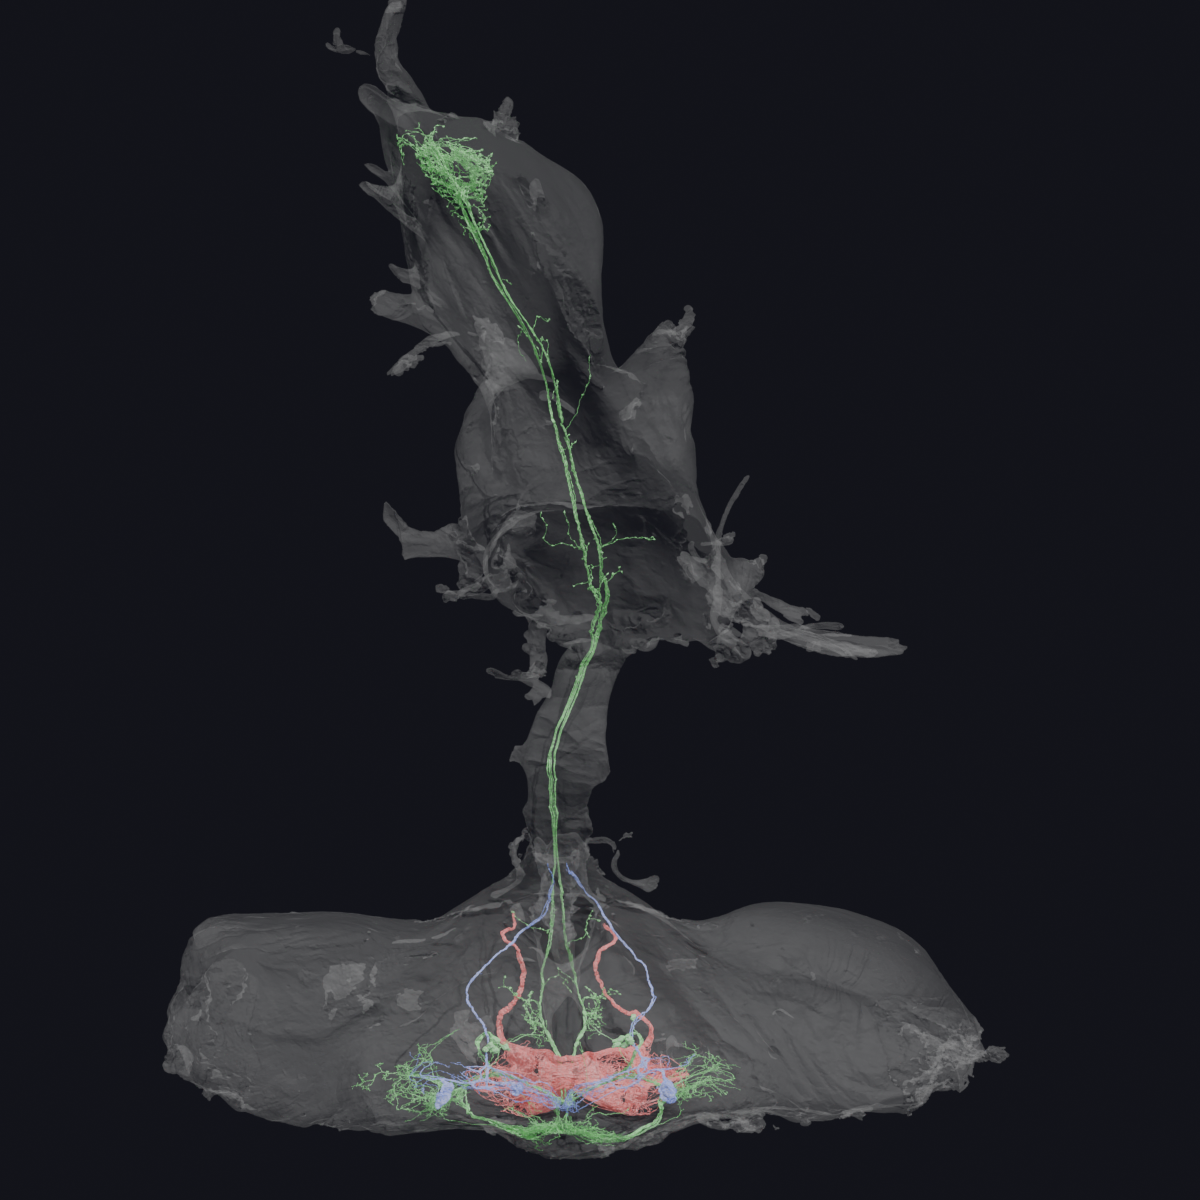
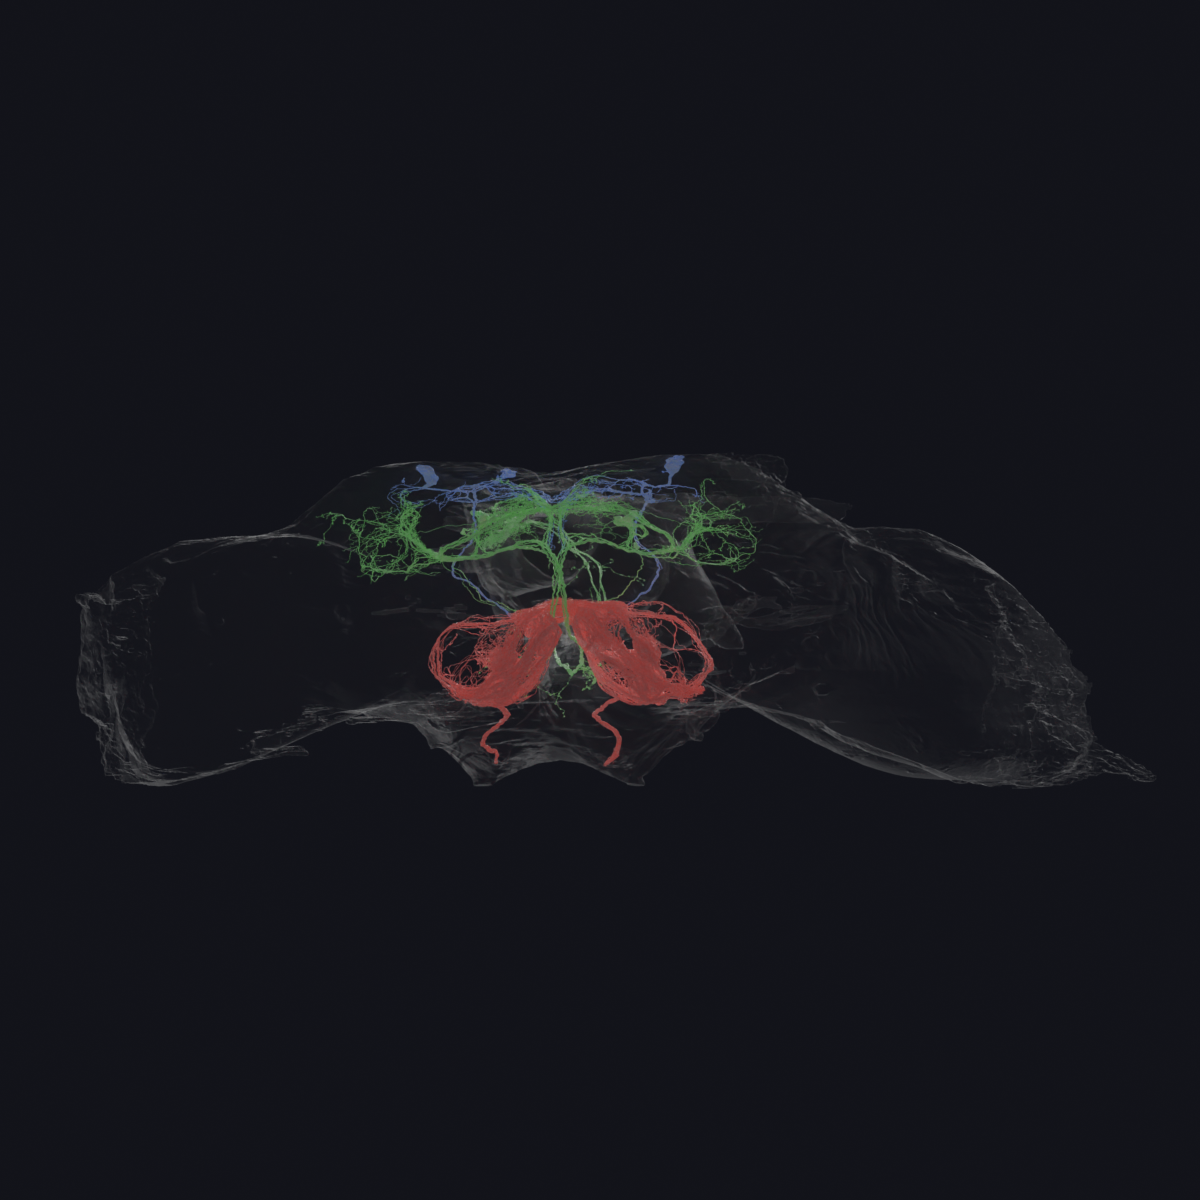
get meshes into frame, start setup for interneurons

diff --git a/banc/render_banc.py b/banc/render_banc.py
@@ -55,23 +55,41 @@ GROUP_COLORS = {
     "ORN": (0.85, 0.15, 0.15, 1.0),
     "OviDN": (0.15, 0.75, 0.15, 1.0),
     "CA": (0.15, 0.25, 0.85, 1.0),
+    "DA": (0.4793, 0.1912, 0.1413, 1.0),      # Dopamine (#B87969)
+    "SER": (0.2623, 0.1221, 0.3005, 1.0),     # Serotonin (#8C6295)
+    "ACH": (0.3005, 0.3663, 0.6172, 1.0),     # Acetylcholine (#95A3CE)
+    "GABA": (0.6654, 0.3916, 0.0648, 1.0),    # GABA (#D5A848)
+    "GLUT": (0.2384, 0.3916, 0.0999, 1.0),    # Glutamate (#86A859)
+    "HIST": (0.5711, 0.2016, 0.2542, 1.0),    # Histamine (#C77C8A)
+    "TYR": (0.159, 0.3864, 0.3663, 1.0),      # Tyrosine (#6FA7A3)
+    "OCT": (0.1683, 0.107, 0.314, 1.0),       # Octopamine (#725C98)
+    "Unknown": (0.5906, 0.5906, 0.5906, 1.0) # Unknown (#CACACA)
 }
 
-# Camera angles as (name, direction_vector, up_hint_degrees) -- direction
-# is normalized and scaled by the scene's actual bounding-sphere radius at
-# render time, NOT a hardcoded distance. This is the fix for the "camera
-# pointed at empty space" bug: BANC's mesh content is NOT centered at
-# world (0,0,0) after import (CAVE/graphene coordinates are absolute, not
-# relative to any particular neuron), so cameras built around a fixed
-# (0,0,0) target and fixed absolute distances only work by coincidence.
-# Direction vectors don't need to be unit length -- get_camera_angles()
-# normalizes them.
-CAMERA_DIRECTIONS = [
-    ("dorsal", (0, 0, 1)),
-    ("lateral_L", (1, 0, 0.15)),
-    ("lateral_R", (-1, 0, 0.15)),
-    ("anterior", (0, -1, 0.15)),
-    ("oblique", (0.7, -0.7, 0.5)),
+# Camera views expressed as ANATOMICAL labels, not raw world-axis vectors.
+# The earlier version hardcoded world (0,0,1) = dorsal, which assumed the
+# CNS's dorsal-ventral axis lines up with Blender's world Z -- it doesn't
+# (confirmed empirically: bounding box extents were X=88.7, Y=31.6,
+# Z=109.6, and a CNS's longest axis is anterior-posterior, shortest is
+# dorsal-ventral -- so world Z is actually A-P here, world Y is D-V, world
+# X is left-right). Rather than hardcode that one-off mapping (fragile if
+# a different circuit's outline mesh or a coordinate-convention change
+# shifts things), axis roles are inferred from bounding-box shape at
+# render time: longest extent = anterior-posterior, shortest = dorsal-
+# ventral, middle = medial-lateral. This holds for any CNS-shaped volume
+# regardless of which world axis it happens to occupy.
+#
+# Each entry: (name, axis_role, sign, up_role). sign=+1/-1 picks which end
+# of that axis the camera sits on; up_role names which anatomical axis
+# should map to the camera's "up" so the roll comes out right (this is
+# the fix for the earlier upside-down dorsal render, which used a fixed
+# world-Y up-hint that fought the real anatomy).
+CAMERA_VIEWS = [
+    ("dorsal", "dorsal_ventral", -1, "anterior_posterior", "medial_lateral", "anterior_posterior"),
+    ("anterior", "anterior_posterior", -1, "dorsal_ventral", "medial_lateral", "dorsal_ventral"),
+    ("lateral_L", "medial_lateral", +1, "dorsal_ventral", "anterior_posterior", "dorsal_ventral"),
+    ("lateral_R", "medial_lateral", -1, "dorsal_ventral", "anterior_posterior", "dorsal_ventral"),
+    ("oblique", None, None, "dorsal_ventral", None, None),  # handled specially, see render_all_angles
 ]
 
 MESH_SCALE = 1 / 10000  # matches the scaling convention in 3d_skeleton.py / b3d.Handler(scaling=...)
@@ -87,9 +105,9 @@ def clear_scene():
 
 
 def load_manifest(mesh_dir):
-    """Returns mesh_id_ (str, no extension) -> group.
+    """Returns mesh_id (str, no extension) -> group.
 
-    Mesh mesh_ids are NOT root IDs (navis.write_mesh names them by some
+    Mesh IDs are NOT root IDs (navis.write_mesh names them by some
     internal/UUID-like scheme, not the root_id you passed in), so the
     manifest must carry both the mesh_id and the root_id, and this
     lookup has to key on mesh_id since that's the only thing
@@ -103,7 +121,7 @@ def load_manifest(mesh_dir):
             raise ValueError(
                 f"manifest.csv has columns {reader.fieldnames}, expected a "
                 "'mesh_id' column -- update Stage A to write the mesh "
-                "mesh_id (path.stem) alongside root_id and group."
+                "ID (path.stem) alongside root_id and group."
             )
         for row in reader:
             mapping[row["mesh_id"]] = row["group"]
@@ -267,12 +285,13 @@ def setup_render(engine, device, resolution, samples, compute_type=None):
 
 
 def compute_scene_bounds(objects):
-    """World-space bounding box center + radius across all given mesh
-    objects. This is the actual fix for the framing bug: CAVE/graphene
-    root IDs carry absolute connectome coordinates, so imported geometry
-    is NOT centered at (0,0,0) -- it sits wherever that ID's absolute
-    position was, offset by nothing. Cameras need to target and frame
-    around this computed center, not the world origin.
+    """World-space bounding box center + per-axis extents across the
+    given mesh objects. Called with ONLY the CNS outline object (not the
+    neuron meshes) -- the outline is a strict spatial superset of every
+    neuron in any circuit subset, so it's a stable, circuit-independent
+    reference frame. Framing off the neuron subset instead would make
+    different circuit renders inconsistently scaled/centered against
+    one another.
     """
     min_co = Vector((float("inf"),) * 3)
     max_co = Vector((float("-inf"),) * 3)
@@ -293,51 +312,117 @@ def compute_scene_bounds(objects):
             max_co.z = max(max_co.z, world_co.z)
 
     center = (min_co + max_co) / 2
-    radius = (max_co - min_co).length / 2
+    extents = max_co - min_co  # full extent per axis, not half
+    radius = extents.length / 2
     print(f"Scene bounds: center={tuple(round(c, 3) for c in center)}, "
-          f"radius={radius:.3f}")
-    return center, radius
+          f"extents={tuple(round(e, 3) for e in extents)}, radius={radius:.3f}")
+    return center, extents, radius
 
 
-def frame_camera_on_target(cam_obj, target, location):
+def infer_axis_roles(extents):
+    """Map world axes (0=X, 1=Y, 2=Z) to anatomical roles by extent size:
+    longest = anterior_posterior, shortest = dorsal_ventral, middle =
+    medial_lateral. This holds for any CNS-shaped bounding volume
+    regardless of which world axis it happens to land on for a given
+    mesh export/coordinate convention -- confirmed against the actual
+    printed extents (X=88.68, Y=31.55, Z=109.56): Z is longest (A-P),
+    Y is shortest (D-V), X is middle (M-L), matching known fly CNS
+    proportions (elongated A-P, thin D-V).
+    Returns {role_name: (axis_index, extent_value)}.
+    """
+    axis_extents = sorted(enumerate(extents), key=lambda t: t[1], reverse=True)
+    roles = {
+        "anterior_posterior": axis_extents[0],
+        "medial_lateral": axis_extents[1],
+        "dorsal_ventral": axis_extents[2],
+    }
+    print("Inferred axis roles (role -> (axis_index, extent)):", roles)
+    return roles
+
+
+def unit_vector_for_axis(axis_index, sign):
+    v = [0.0, 0.0, 0.0]
+    v[axis_index] = float(sign)
+    return Vector(v)
+
+
+def frame_camera_on_target(cam_obj, target, location, up_hint="Y"):
     direction = target - location
     cam_obj.location = location
-    cam_obj.rotation_euler = direction.to_track_quat("-Z", "Y").to_euler()
+    cam_obj.rotation_euler = direction.to_track_quat("-Z", up_hint).to_euler()
+
+def distance_for_fov(cam_data, horizontal_extent, vertical_extent, margin=1.15):
+    """Required camera distance so both extents fit in frame, with margin."""
+    fov_h = cam_data.angle_x   # radians, live from lens+sensor_width
+    fov_v = cam_data.angle_y   # radians, live from lens+sensor_height
+    d_for_width = horizontal_extent / (2 * math.tan(fov_h / 2))
+    d_for_height = vertical_extent / (2 * math.tan(fov_v / 2))
+    return max(d_for_width, d_for_height) * margin
 
 
 def render_all_angles(out_dir, resolution):
     out_dir.mkdir(parents=True, exist_ok=True)
 
-    mesh_objects = [o for o in bpy.context.scene.objects if o.type == "MESH"]
-    if not mesh_objects:
-        raise RuntimeError("No mesh objects in scene -- did import_meshes run first?")
-    center, radius = compute_scene_bounds(mesh_objects)
+    outline_obj = bpy.data.objects.get("cns_outline")
+    if outline_obj is None:
+        raise RuntimeError(
+            "No 'cns_outline' object found -- framing needs the outline mesh "
+            "as the stable reference volume (see compute_scene_bounds docstring). "
+            "Check that cns_outline.obj exists in mesh-dir and import_meshes loaded it."
+        )
+    center, extents, radius = compute_scene_bounds([outline_obj])
     if radius == 0:
         raise RuntimeError("Computed scene radius is 0 -- bounding box degenerate, "
-                            "check that meshes actually imported with real geometry.")
+                            "check that the outline mesh actually has real geometry.")
+    axis_roles = infer_axis_roles(extents)
 
-    # Distance scaled to bounding radius rather than a fixed number, with
-    # a margin so the full extent fits in frame (empirical factor -- 2.2x
-    # radius comfortably fits a roughly spherical/ellipsoid cluster with a
-    # ~50mm lens; tighten/loosen after seeing a real render).
-    distance = radius * 2.2
+    # # Distance scaled to bounding radius, with margin so the fullest
+    # # extent (anterior-posterior, always the longest) still fits in frame.
+    # # 1.3x the A-P half-extent is tighter than the earlier flat 2.2x*radius
+    # # guess, and won't clip since it's derived from the real long axis
+    # # rather than a generic sphere-fit distance.
+    # ap_axis, ap_extent = axis_roles["anterior_posterior"]
+    # distance = max(radius * 2.2, ap_extent * 0.75)
 
     bpy.ops.object.camera_add(location=(0, 0, 0))
     cam_obj = bpy.context.object
     cam_obj.name = "render_cam"
     cam_obj.data.lens = 50
-    cam_obj.data.clip_end = distance * 10  # avoid far-plane clipping at these scales
+    cam_obj.data.clip_end = radius * 5  # avoid far-plane clipping at these scales
     bpy.context.scene.camera = cam_obj
 
-    for name, direction in CAMERA_DIRECTIONS:
-        dir_vec = Vector(direction).normalized()
+    for name, axis_role, sign, up_role, h_dim, v_dim in CAMERA_VIEWS:
+        if name == "oblique": continue
+        if axis_role is None:
+            # oblique: average of anterior + one lateral direction, so it
+            # doesn't depend on a single anatomical axis.
+            ap_idx, _ = axis_roles["anterior_posterior"]
+            ml_idx, _ = axis_roles["medial_lateral"]
+            dv_idx, _ = axis_roles["dorsal_ventral"]
+            dir_vec = (
+                unit_vector_for_axis(ap_idx, -1) * 0.7
+                + unit_vector_for_axis(ml_idx, +1) * 0.7
+                + unit_vector_for_axis(dv_idx, +1) * 0.4
+            ).normalized()
+        else:
+            axis_idx, _ = axis_roles[axis_role]
+            dir_vec = unit_vector_for_axis(axis_idx, sign)
+
+        up_axis_idx, _ = axis_roles[up_role]
+        # Blender's to_track_quat up-hint wants a named axis ("X"/"Y"/"Z"),
+        # not a vector -- map the anatomical up-role back to whichever
+        # world axis it corresponds to.
+        up_hint = "XYZ"[up_axis_idx]
+
+        margin = 0.8 if name == "dorsal" else 1.5 if name == "anterior" else 1.2
+        distance = distance_for_fov(cam_obj.data, axis_roles[h_dim][1], axis_roles[v_dim][1], margin=margin)
         location = center + dir_vec * distance
-        frame_camera_on_target(cam_obj, center, location)
+        frame_camera_on_target(cam_obj, center, location, up_hint=up_hint)
 
         out_path = out_dir / f"banc_{name}.png"
         bpy.context.scene.render.filepath = str(out_path)
-        print(f"Rendering '{name}' from {tuple(round(c, 2) for c in location)} at {cam_obj.rotation_euler} "
-              f"-> {out_path}")
+        print(f"Rendering '{name}' from {tuple(round(c, 2) for c in location)} "
+              f"(up hint: world {up_hint}) -> {out_path}")
         bpy.ops.render.render(write_still=True)
 
 

diff --git a/banc/download_meshes.py b/banc/download_meshes.py
@@ -34,16 +34,20 @@ OUTPUT_DIR.mkdir(exist_ok=True)
 # trimesh-like objects.
 navis.patch_cloudvolume()
 
-
-def main():
+def id_to_group(circuit: str):
     yeast_orns = pd.read_csv("data/yeast_orns.csv")["root_id"].tolist()
     given_neurons = pd.read_csv("data/given_neurons.csv")
     ovidns = given_neurons[given_neurons["group"] == "OviDN"]["root_id"].tolist()
     ca = given_neurons[given_neurons["group"] == "CA"]["root_id"].tolist()
-    all_ids = yeast_orns + ovidns + ca
 
-    print(f"Fetching {len(all_ids)} meshes ({len(yeast_orns)} yeast ORN, {len(ovidns)} OviDN, {len(ca)} CA)...")
+    edge_list = pd.read_csv('out/master_edge_list_with_direction.csv')
+    edge_list = edge_list[edge_list['direction'] == circuit]
+    all_neurons = pd.concat([edge_list['pre_root_id'], edge_list['post_root_id']]).unique()
+    attrs = pd.read_csv('data/neurons.csv')[['Root ID', 'Predicted NT type']].fillna('Unknown')
 
+    return {root_id: "ORN" if root_id in yeast_orns else "OviDN" if root_id in ovidns else "CA" if root_id in ca else attrs[attrs['Root ID'] == root_id]['Predicted NT type'].iloc[0] for root_id in all_neurons}
+
+def main():
     vol = CloudVolume(MESH_SOURCE, use_https=True, progress=False)
 
     # Fetch one ID at a time rather than batched. This costs some overhead
@@ -52,70 +56,73 @@ def main():
     # you lose the whole batch, not just the missing ID, which is why the
     # last run silently dropped more neurons than were actually missing.
     # Per-ID fetch means a single bad ID costs you exactly that one neuron.
-    missing = []
-    manifest = pd.DataFrame(columns=["root_id", "group", "mesh_id"])
-    for i, root_id in enumerate(all_ids):
-        try:
-            m = vol.mesh.get(root_id, as_navis=True)
-            # vol.mesh.get returns a NeuronList even for a single ID
-            # m = navis.simplify_mesh(m, F=0.2, backend='blender')
-            m = m[0]
-        except Exception as e:
-            missing.append((root_id, str(e)))
-            continue
+    for c in ['ORN_to_CA', 'ORN_to_oviDN', 'CA_to_oviDN', 'oviDN_to_CA']:
+        OUTPUT_DIR.joinpath(c).mkdir(exist_ok=True)
+        missing = []
+        manifest = pd.DataFrame(columns=["root_id", "group", "mesh_id"])
+        id2g = id_to_group(c)
+        all_ids = list(id2g.keys())
+        for i, root_id in enumerate(all_ids):
+            try:
+                m = vol.mesh.get(root_id, as_navis=True)
+                # vol.mesh.get returns a NeuronList even for a single ID
+                # m = navis.simplify_mesh(m, F=0.2, backend='blender')
+                m = m[0]
+            except Exception as e:
+                missing.append((root_id, str(e)))
+                continue
 
-        out_path = OUTPUT_DIR / f"{m.id}.obj"
-        navis.write_mesh(m, str(out_path))
-        # written.append(m.id)
-        manifest.loc[len(manifest)] = {
-            "root_id": root_id,
-            "group": given_neurons[given_neurons["root_id"] == root_id]["group"].iloc[0] if root_id in given_neurons["root_id"].values else "ORN",
-            "mesh_id": m.id,
-        }
+            out_path = OUTPUT_DIR / c / f"{m.id}.obj"
+            navis.write_mesh(m, str(out_path))
+            manifest.loc[len(manifest)] = {
+                "root_id": root_id,
+                "group": id2g[root_id],
+                "mesh_id": m.id,
+            }
 
-        if (i + 1) % 50 == 0:
-            print(f"  {i + 1}/{len(all_ids)} ({len(missing)} missing so far)")
+            if (i + 1) % 50 == 0:
+                print(f"  {i + 1}/{len(all_ids)} ({len(missing)} missing so far)")
 
-    print(f"\nWrote {len(manifest)} mesh files to {OUTPUT_DIR}/")
-    if missing:
-        print(f"Missing/failed: {len(missing)} of {len(all_ids)} ({len(missing)/len(all_ids)*100:.1f}%)")
-        missing_df = pd.DataFrame(missing, columns=["root_id", "error"])
-        missing_df.to_csv(OUTPUT_DIR / "missing_meshes.csv", index=False)
-        print(f"Full list + error messages written to {OUTPUT_DIR / 'missing_meshes.csv'}")
-        print("Worth checking whether these are real gaps in the mesh mirror (e.g. very")
-        print("recently proofread IDs not yet baked into the snapshot) vs. something else,")
-        print("since silently rendering a figure with ~5% of yeast ORNs missing is worth")
-        print("noting in the methods even if it doesn't change the qualitative picture.")
+        print(f"\nWrote {len(manifest)} mesh files to {OUTPUT_DIR}/")
+        if missing:
+            print(f"Missing/failed: {len(missing)} of {len(all_ids)} ({len(missing)/len(all_ids)*100:.1f}%)")
+            missing_df = pd.DataFrame(missing, columns=["root_id", "error"])
+            missing_df.to_csv(OUTPUT_DIR / c / "missing_meshes.csv", index=False)
+            print(f"Full list + error messages written to {OUTPUT_DIR / c / 'missing_meshes.csv'}")
+            print("Worth checking whether these are real gaps in the mesh mirror (e.g. very")
+            print("recently proofread IDs not yet baked into the snapshot) vs. something else,")
+            print("since silently rendering a figure with ~5% of yeast ORNs missing is worth")
+            print("noting in the methods even if it doesn't change the qualitative picture.")
 
-    # Also fetch the CNS outline mesh as background context, same as
-    # 3d_skeleton.py's outline_mesh fetch -- reuse that ID once you've
-    # confirmed it via the probe print in the original script.
-    OUTLINE_SOURCE = "precomputed://gs://lee-lab_brain-and-nerve-cord-fly-connectome/region_outlines"
-    cv_outline = CloudVolume(OUTLINE_SOURCE, use_https=True, progress=False)
-    outline_id = 1  # confirm via cv_outline.mesh.meta.info, per 3d_skeleton.py's probe
-    outline_mesh = cv_outline.mesh.get(outline_id, as_navis=True)
-    navis.write_mesh(outline_mesh, str(OUTPUT_DIR / "cns_outline.obj"))
-    print("Wrote cns_outline.obj")
+        # Also fetch the CNS outline mesh as background context, same as
+        # 3d_skeleton.py's outline_mesh fetch -- reuse that ID once you've
+        # confirmed it via the probe print in the original script.
+        OUTLINE_SOURCE = "precomputed://gs://lee-lab_brain-and-nerve-cord-fly-connectome/region_outlines"
+        cv_outline = CloudVolume(OUTLINE_SOURCE, use_https=True, progress=False)
+        outline_id = 1  # confirm via cv_outline.mesh.meta.info, per 3d_skeleton.py's probe
+        outline_mesh = cv_outline.mesh.get(outline_id, as_navis=True)
+        navis.write_mesh(outline_mesh, str(OUTPUT_DIR / c / "cns_outline.obj"))
+        print("Wrote cns_outline.obj")
 
-    # Write a manifest mapping root_id -> group, so Stage B (in Blender)
-    # can assign colors without needing pandas/CAVE at all. yeast_orns.csv
-    # has no 'group' column of its own, so tag those rows explicitly
-    # rather than relying on given_neurons.csv (which has ALL ~3,006 ORNs,
-    # not just the yeast-responsive subset -- filtering by root_id keeps
-    # only the ones actually fetched, which is exactly the yeast subset
-    # here since yeast_orns.csv IDs are a strict subset of given_neurons).
-    # written_ids = set(str(w) for w in written)
-    # manifest_rows = []
-    # for root_id in yeast_orns:
-    #     if str(root_id) in written_ids:
-    #         manifest_rows.append({"root_id": root_id, "group": "ORN"})
-    # other_primary = given_neurons[
-    #     given_neurons["group"].isin(["OviDN", "CA"])
-    #     & given_neurons["root_id"].astype(str).isin(written_ids)
-    # ]
-    # manifest = pd.concat([pd.DataFrame(manifest_rows), other_primary[["root_id", "group"]]], ignore_index=True)
-    manifest.to_csv(OUTPUT_DIR / "manifest.csv", index=False)
-    print(f"Wrote manifest.csv ({len(manifest)} neurons, matching what was actually fetched)")
+        # Write a manifest mapping root_id -> group, so Stage B (in Blender)
+        # can assign colors without needing pandas/CAVE at all. yeast_orns.csv
+        # has no 'group' column of its own, so tag those rows explicitly
+        # rather than relying on given_neurons.csv (which has ALL ~3,006 ORNs,
+        # not just the yeast-responsive subset -- filtering by root_id keeps
+        # only the ones actually fetched, which is exactly the yeast subset
+        # here since yeast_orns.csv IDs are a strict subset of given_neurons).
+        # written_ids = set(str(w) for w in written)
+        # manifest_rows = []
+        # for root_id in yeast_orns:
+        #     if str(root_id) in written_ids:
+        #         manifest_rows.append({"root_id": root_id, "group": "ORN"})
+        # other_primary = given_neurons[
+        #     given_neurons["group"].isin(["OviDN", "CA"])
+        #     & given_neurons["root_id"].astype(str).isin(written_ids)
+        # ]
+        # manifest = pd.concat([pd.DataFrame(manifest_rows), other_primary[["root_id", "group"]]], ignore_index=True)
+        manifest.to_csv(OUTPUT_DIR / "manifest.csv", index=False)
+        print(f"Wrote manifest.csv ({len(manifest)} neurons, matching what was actually fetched)")
 
 
 if __name__ == "__main__":
